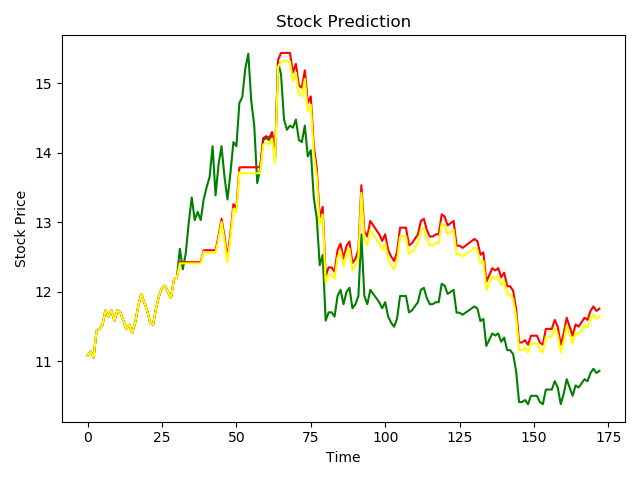
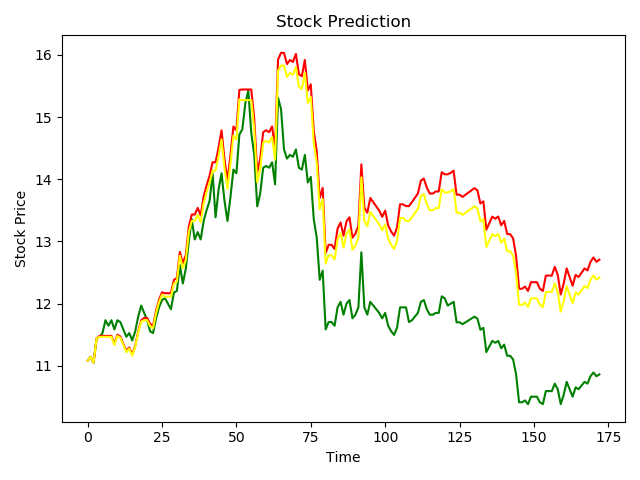
start code on small window

diff --git a/window_predict.py b/window_predict.py
@@ -1,0 +1,153 @@
+import numpy as np
+import tushare as ts
+import codecs
+import time
+from sklearn.preprocessing import scale
+from keras.utils import np_utils
+import matplotlib.pyplot as plt
+from ml_model import MLModel
+
+# 导入金融数据
+with codecs.open('token.txt', 'rb', 'utf-8') as f:
+    token = f.read()
+ts.set_token(token)
+pro = ts.pro_api()
+
+stock = '399300.SZ'  # 399300.SZ   000905.SH
+
+quotes = pro.index_daily(ts_code=stock, start_date='20180101')
+
+print("开始 :", stock, ", 时间 :", time.ctime())
+quotes = quotes.sort_values(by=['trade_date'], ascending=True)
+
+window_len = 20  # 窗口的长度
+time_steps = 2  # 每次训练的数据长度
+
+# 数据
+close_total = np.array(quotes['close'])
+open_total = np.array(quotes['open'])
+high_total = np.array(quotes['high'])
+low_total = np.array(quotes['low'])
+change_total = np.array(quotes['pct_chg'])
+turnover_vol_total = np.array(quotes['vol'])
+turnover_value_total = np.array(quotes['amount'])
+mean_total = (np.array(quotes['high']) + np.array(quotes['low'])) / 2
+
+base_money = close_total[window_len-1]  # 每天的金额，以第一天的前一天的收盘价为基础金额
+base_money_fee = base_money  # 每天的金额，含手续费计算
+base = 1  # 用来计算收益率
+base_fee = base  # 用来计算含手续费的收益率
+model_line = [base_money]  # 记录每天的金额的列表
+model_line_fee = [base_money]  # 记录含手续费的每天的金额的列表
+print(stock, '初始金额 : ', base_money, ' , 实际最终金额 : ', close_total[-1])
+
+buyed = 1  # 股票是否已经购买的状态
+buy_num = 0  # 购买股票的天数
+hold_num = 0  # 持有股票的天数
+sell_num = 0  # 抛出股票的天数
+empty_num = 0  # 空仓的天数
+
+up_num = 0  # 预测涨正确的天数
+down_num = 0  # 预测跌正确的天数
+medium_num = 0  # 预测平正确的天数
+
+for i in range(change.shape[0]):  # 从第一天起到最后一天，计算金额变化
+
+    if predict_state[i] > 0 and change[i] > 1:
+        up_num += 1
+    elif predict_state[i] < 0 and change[i] < -1:
+        down_num += 1
+    elif predict_state[i] == 0 and -1 <= change[i] <= 1:
+        medium_num += 1
+
+    if predict_state[i] > 0 and (not buyed):  # 预测结果涨 且 没有持有股票， 买入，手续费0.00032
+        buyed = 1
+        buy_num += 1
+        rate_temp = (mean[i] - close[i]) / close[i]  # 基于第二天股票均价相对于第一天收盘价的涨跌幅
+        base = base * (1 + rate_temp)
+        base_money = base_money * (1 + rate_temp)
+        base_fee = base_fee * (1 + rate_temp) * (1 - 0.00032)
+        base_money_fee = base_money_fee * (1 + rate_temp) * (1 - 0.00032)
+    elif predict_state[i] < 0 and buyed:  # 预测结果为平或跌 且 持有股票，抛出，手续费0.00132
+        buyed = 0
+        sell_num += 1
+        rate_temp = (mean[i] - close[i]) / close[i]  # 基于第二天股票均价相对于第一天收盘价的涨跌幅
+        base = base * (1 + rate_temp)
+        base_money = base_money * (1 + rate_temp)
+        base_fee = base_fee * (1 + rate_temp) * (1 - 0.00132)
+        base_money_fee = base_money_fee * (1 + rate_temp) * (1 - 0.00132)
+    elif predict_state[i] >= 0 and buyed:  # 预测结果为涨 且 持有股票，不进行操作
+        hold_num += 1
+        base = base * (1 + change[i] / 100)
+        base_money = base_money * (1 + change[i] / 100)
+        base_fee = base_fee * (1 + change[i] / 100)
+        base_money_fee = base_money_fee * (1 + change[i] / 100)
+    else:  # 预测结果为跌 且 没有持有股票，不进行操作
+        empty_num += 1
+
+    model_line.append(base_money)
+    model_line_fee.append(base_money_fee)
+
+model_line = np.array(model_line)
+model_line_fee = np.array(model_line_fee)
+
+print(stock_name, '预测涨正确的天数', up_num)
+print(stock_name, '预测跌正确的天数', down_num)
+print(stock_name, '预测平正确的天数', medium_num)
+
+print(stock_name, '总天数:', change.shape[0], ',买入天数: ', buy_num, ',卖出天数: ', sell_num, ',持有天数: ',
+      hold_num, ',空仓天数: ', empty_num)
+print(stock_name, '最终金额: ', base_money, ' , 最终金额(含交易费): ', base_money_fee)
+print(stock_name, "收益率: ", base - 1, " , 收益率(含交易费): ", base_fee - 1)
+
+# 绘制曲线图
+fig = plt.figure()
+plt.plot(close, color='green', label='Real Stock Price')
+plt.plot(model_line, color='red', label='Predicted Without Fee')
+plt.plot(model_line_fee, color='yellow', label='Predicted With Fee')
+plt.title(label='Stock Prediction')
+plt.xlabel(xlabel='Time')
+plt.ylabel(ylabel='Stock Price')
+plt.legend(loc='upper left')
+plt.show()
+fig.savefig("pictures\\lines_" + stock_name + ".png")
+
+
+def generate_x_and_y_3(time_steps, change, *xs):
+    flat_num = 0.2  # (-flat_num, flat_num) 平
+
+    data_num = 0  # 参数的个数
+
+    if len(xs) < 1:
+        print('error: 没有传入参数XS！！！')
+        return
+    x_len = len(change)
+    x_list = []
+    for x_temp in xs:
+        if len(x_temp) != x_len:
+            print('error: XS参数长度不相等！！！')
+            return
+        x_list.append(x_temp)
+        data_num += 1
+
+    x_unscaled = np.column_stack(x_list)
+    x_scaled = scale(X=x_unscaled, axis=0)  # 归一化
+
+    x = []
+    y = []
+    for i in range(time_steps, x_scaled.shape[0]):
+        x.append(x_scaled[i - time_steps: i])
+        y_change = change[i]
+        if y_change < -flat_num:
+            y.append(0)
+        elif -flat_num <= y_change <= flat_num:
+            y.append(1)
+        elif y_change > flat_num:
+            y.append(2)
+    # 将数据转化为数组
+    x, y = np.array(x), np.array(y)
+    # 因为LSTM要求输入的数据格式为三维的，[training_number, time_steps, data_num]，因此对数据进行相应转化
+    x = np.reshape(x, (x.shape[0], x.shape[1], data_num))
+    y = np_utils.to_categorical(y, num_classes=3)
+
+    return x, y

diff --git a/stock_predict.py b/stock_predict.py
@@ -14,7 +14,7 @@ def stock_predict(stock, quotes, divide_date):
         quotes = quotes.sort_values(by=['tradeDate'], ascending=True)
         train_quotes = quotes[quotes['tradeDate'] < divide_date].sort_values(by=['tradeDate'], ascending=True)
 
-        time_steps = 20  # 每次训练的数据长度
+        time_steps = 5  # 每次训练的数据长度
 
         total_days = len(quotes) - 1
         train_days = len(train_quotes) - 1  # 减去计算不到涨跌幅的第一天
@@ -72,8 +72,8 @@ def stock_predict(stock, quotes, divide_date):
 
 def generate_x_and_y(time_steps, change, *xs):
     # ( ,-big_num)大跌， (-big_num,-small_num)小跌， (-small_num,small_num)平， (small_num,big_num)小涨， (big_num, )大涨
-    small_num = 0.4
-    big_num = 1.2
+    small_num = 0.2
+    big_num = 0.72
 
     data_num = 0  # 参数的个数
 
@@ -124,6 +124,55 @@ def generate_x_and_y(time_steps, change, *xs):
     return x, y
 
 
+def generate_x_and_y_3(time_steps, change, *xs):
+    # ( ,-big_num)大跌， (-big_num,-small_num)小跌， (-small_num,small_num)平， (small_num,big_num)小涨， (big_num, )大涨
+    big_num = 0.3
+
+    data_num = 0  # 参数的个数
+
+    if len(xs) < 1:
+        print('error: 没有传入参数XS！！！')
+        return
+    x_len = len(change)
+    x_list = []
+    for x_temp in xs:
+        if len(x_temp) != x_len:
+            print('error: XS参数长度不相等！！！')
+            return
+        x_list.append(x_temp)
+        data_num += 1
+
+    x_unscaled = np.column_stack(x_list)  # 训练集
+    # scaler = MinMaxScaler(feature_range=(0, 1))
+    # """
+    # fit_transform()对部分数据先拟合fit，
+    # 找到该part的整体指标，如均值、方差、最大值最小值等等（根据具体转换的目的），
+    # 然后对该trainData进行转换transform，从而实现数据的标准化、归一化等等。
+    # """
+    # x_scaled = scaler.fit_transform(X=x_unscaled)
+    x_scaled = scale(X=x_unscaled, axis=0)  # 归一化
+
+    x = []
+    y = []
+    # 每240个数据为一组，作为测试数据，下一个数据为标签
+    for i in range(time_steps, x_scaled.shape[0]):
+        x.append(x_scaled[i - time_steps: i])
+        y_change = change[i]
+        if y_change < -big_num:
+            y.append(0)
+        elif -big_num <= y_change <= big_num:
+            y.append(1)
+        elif y_change > big_num:
+            y.append(2)
+    # 将数据转化为数组
+    x, y = np.array(x), np.array(y)
+    # 因为LSTM要求输入的数据格式为三维的，[training_number, time_steps, data_num]，因此对数据进行相应转化
+    x = np.reshape(x, (x.shape[0], x.shape[1], data_num))
+    y = np_utils.to_categorical(y, num_classes=3)
+
+    return x, y
+
+
 def stock_operation(stock_name, change, close, mean, predict_state):
     """
     股票买卖的操作，最后绘制走势图
@@ -162,14 +211,14 @@ def stock_operation(stock_name, change, close, mean, predict_state):
 
     for i in range(change.shape[0]):  # 从第一天起到最后一天，计算金额变化
 
-        if predict_state[i] > 0 and change[i] > 2:
+        if predict_state[i] > 0 and change[i] > 1:
             up_num += 1
-        elif predict_state[i] < 0 and change[i] < -2:
+        elif predict_state[i] < 0 and change[i] < -1:
             down_num += 1
-        elif predict_state[i] == 0 and -2 <= change[i] <= 2:
+        elif predict_state[i] == 0 and -1 <= change[i] <= 1:
             medium_num += 1
 
-        if predict_state[i] >= 0 and (not buyed):  # 预测结果不为跌 且 没有持有股票， 买入，手续费0.00032
+        if predict_state[i] >= 0 and (not buyed):  # 预测结果涨 且 没有持有股票， 买入，手续费0.00032
             buyed = 1
             buy_num += 1
             rate_temp = (mean[i] - close[i]) / close[i]  # 基于第二天股票均价相对于第一天收盘价的涨跌幅
@@ -177,7 +226,7 @@ def stock_operation(stock_name, change, close, mean, predict_state):
             base_money = base_money * (1 + rate_temp)
             base_fee = base_fee * (1 + rate_temp) * (1 - 0.00032)
             base_money_fee = base_money_fee * (1 + rate_temp) * (1 - 0.00032)
-        elif predict_state[i] < 0 and buyed:  # 预测结果为跌 且 持有股票，抛出，手续费0.00132
+        elif predict_state[i] < 0 and buyed:  # 预测结果为平或跌 且 持有股票，抛出，手续费0.00132
             buyed = 0
             sell_num += 1
             rate_temp = (mean[i] - close[i]) / close[i]  # 基于第二天股票均价相对于第一天收盘价的涨跌幅
@@ -185,7 +234,7 @@ def stock_operation(stock_name, change, close, mean, predict_state):
             base_money = base_money * (1 + rate_temp)
             base_fee = base_fee * (1 + rate_temp) * (1 - 0.00132)
             base_money_fee = base_money_fee * (1 + rate_temp) * (1 - 0.00132)
-        elif predict_state[i] >= 0 and buyed:  # 预测结果为震荡或上涨 且 持有股票，不进行操作
+        elif predict_state[i] >= 0 and buyed:  # 预测结果为涨 且 持有股票，不进行操作
             hold_num += 1
             base = base * (1 + change[i] / 100)
             base_money = base_money * (1 + change[i] / 100)
@@ -217,6 +266,7 @@ def stock_operation(stock_name, change, close, mean, predict_state):
     plt.title(label='Stock Prediction')
     plt.xlabel(xlabel='Time')
     plt.ylabel(ylabel='Stock Price')
+    plt.legend(loc='upper left')
     plt.show()
     fig.savefig("pictures\\lines_" + stock_name + ".png")
 

diff --git a/index_predict.py b/index_predict.py
@@ -11,7 +11,13 @@ with codecs.open('token.txt', 'rb', 'utf-8') as f:
 ts.set_token(token)
 pro = ts.pro_api()
 
-stock = '000905.SH'  # 399300.SZ   000905.SH
+"""
+generate_x_and_y方法的调参
+对于中证500 '000905.SH'，small_num=0.4 , big_num=1.2
+对于沪深300 '399300.SZ'，small_num=0.2 , big_num=0.72
+"""
+
+stock = '399300.SZ'  # 399300.SZ   000905.SH
 divide_date = '20190101'
 
 quotes = pro.index_daily(ts_code=stock, start_date='20090101')
@@ -20,20 +26,23 @@ print("开始 :", stock, ", 时间 :", time.ctime())
 quotes = quotes.sort_values(by=['trade_date'], ascending=True)
 train_quotes = quotes[quotes['trade_date'] < divide_date].sort_values(by=['trade_date'], ascending=True)
 
-time_steps = 20  # 每次训练的数据长度
+time_steps = 5  # 每次训练的数据长度
 
 total_days = len(quotes)
 train_days = len(train_quotes)
 
 # 数据
 close_total = np.array(quotes['close'])
+open_total = np.array(quotes['open'])
+high_total = np.array(quotes['high'])
+low_total = np.array(quotes['low'])
 change_total = np.array(quotes['pct_chg'])
 turnover_vol_total = np.array(quotes['vol'])
 turnover_value_total = np.array(quotes['amount'])
 mean_total = (np.array(quotes['high']) + np.array(quotes['low'])) / 2
 
 x_total, y_total = stock_predict.generate_x_and_y(time_steps, change_total,
-                                                  change_total, close_total, turnover_vol_total, turnover_value_total)
+                                                  change_total, open_total, close_total, high_total, low_total, turnover_value_total)
 
 x_train = x_total[0:train_days - time_steps]
 y_train = y_total[0:train_days - time_steps]
